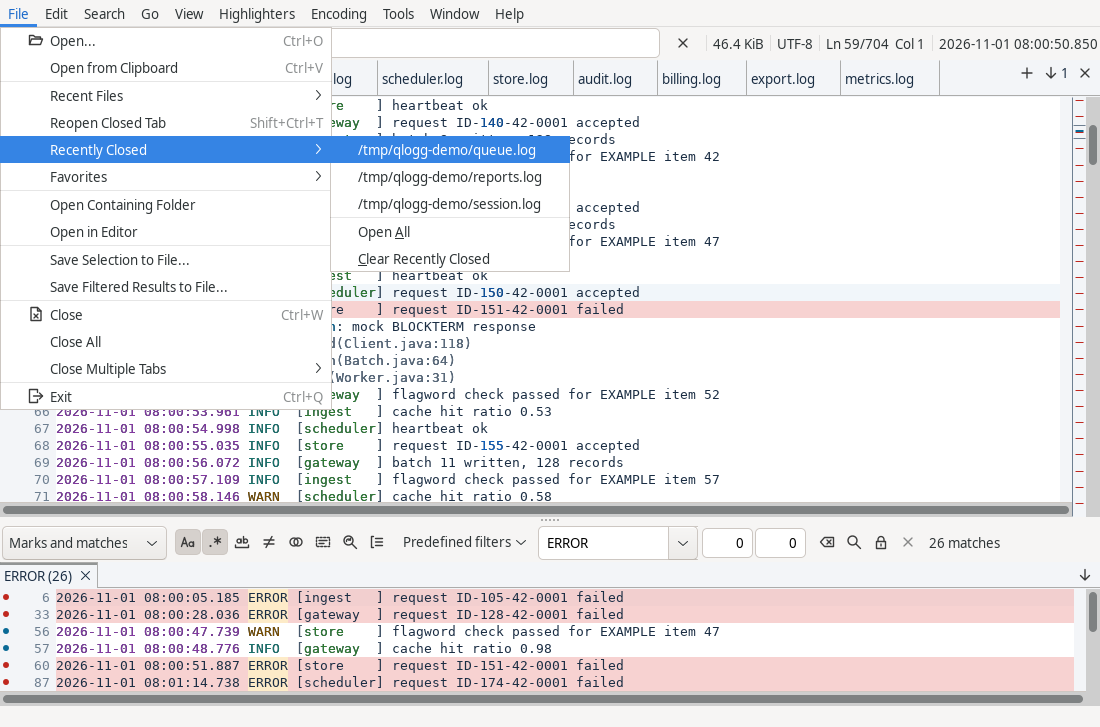
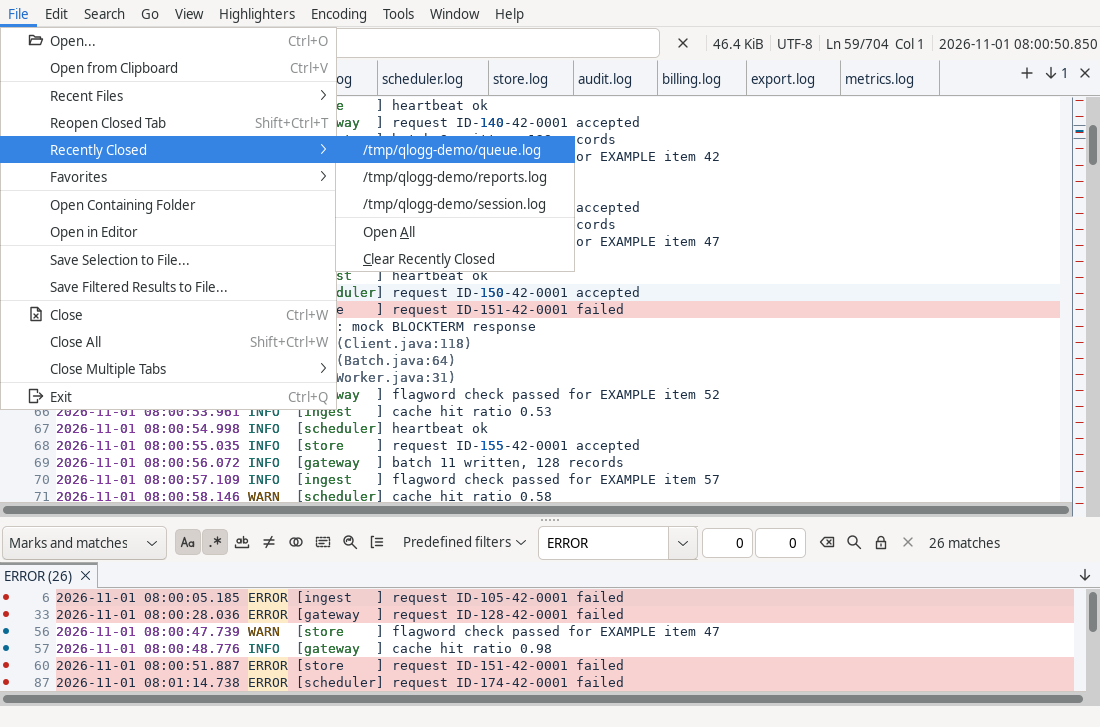
Regenerate the shortcuts and Recently Closed screenshots for Close All, name LinkageError and the no-GTK exit in the launcher docs, document both GTK fallback directions, add .tool and the windows-aarch64 JDK, name the UCRT forwarders and drop the umask sentence

diff --git a/qlogg-launcher/README.md b/qlogg-launcher/README.md
@@ -28,7 +28,7 @@ module except the bootstrap, so it holds the architecture rules.
 |---|---|
 | 0 | Help, version, the files went to the running instance, or the last window closed |
 | 1 | Bad command line, or a `--settings` path that cannot be a directory |
-| 3 | SWT failed to load (`UnsatisfiedLinkError` or `SWTError` from `new Display()`), typically missing GTK 3 libraries |
+| 3 | SWT failed to load (`LinkageError` or `SWTError` from `Display` class initialization or `new Display()`), typically no loadable GTK |
 | 4 | UI-thread failures ran the quit (`UiFailures`) |
 
 `Main` calls `System.exit` only for a nonzero status. After a normal close
@@ -287,7 +287,7 @@ Classes tagged `swt` open windows and run under a display (Xvfb under
 | `ScreenshotsTest` (`swt`) | Runs only with `-Dqlogg.screenshots=<dir>` (`tools/screenshots.sh`): a generated mock log at 1100 x 700 (`-Dqlogg.screenshots.width` and `.height` override it; `-Dqlogg.screenshots.tabs=2` opens a second log so the tab row holds two tabs) with a highlighter set, a search and two marks; writes `qlogg-light.png` and `qlogg-dark.png` through `Shell.print` |
 | `PortableRunTest` (`swt`) | `Gui` twice over a portable bundle with `user.home` set as `PlatformSetup` sets it, once with the marker in the bundle and once in its `bin/`: the first run opens a log, zooms and adds a favorite, the second restores the session; every new or changed file lies in the marker's folder and the home directory is empty |
 | `PortableGuideTest` (`swt`, Linux, not GTK 4) | `PortableGuideMain` as a child process in portable mode with `HOME` an empty folder and no application for HTML: Help > User Guide writes the copy and opens no guide window, and no `QLogg` folder under `.cache` or `.local/share` and no `.cache/mesa_shader_cache` appears. GTK 4's renderer writes the Mesa cache in every run |
-| `LoadedToolkitTest` (`swt`, Linux) | `LoadedToolkitMain` as a child process with `SWT_GTK4=1` and an empty `libgtk-4.so.1` first on `LD_LIBRARY_PATH`: SWT falls back to GTK 3, `PlatformTraits.PLATFORM` is the GTK 3 traits, and one WARN names the fallback |
+| `LoadedToolkitTest` (`swt`, Linux) | `LoadedToolkitMain` as a child process with `SWT_GTK4=1` and an empty `libgtk-4.so.1` first on `LD_LIBRARY_PATH`: SWT falls back to GTK 3, `PlatformTraits.PLATFORM` is the GTK 3 traits, and one WARN names the fallback; with neither GTK loadable, `Main` exits 3 and prints `qlogg: SWT failed to start` |
 | `WindowsGuiTest` (`swt`) | `Gui` as a primary: New Window opens a second window, a handoff from a worker opens its file in the window activated last, quit closes both windows, the workers and the endpoint file; a handoff sent before `Gui` runs opens as a tab |
 | `StoreFaultsTest` (`swt`) | `Gui` over a malformed, an oversized and an unknown-version session file: each opens an empty window, exits 0 and logs a WARN. A remembered encoding the runtime does not support opens the file with detection |
 | `SigtermTest` (`swt`, Linux) | `Main` as a child process restoring a two-file session: after both files' `Indexing ... done` lines in its `-l` log, SIGTERM (`Process.destroy`) ends it within the hook's bound, the endpoint file is gone, the session and positions files were written, and the hook's INFO line reached the log. Windows has no SIGTERM; `destroy` there terminates without hooks |

diff --git a/qlogg-app/docs/document-views.md b/qlogg-app/docs/document-views.md
@@ -173,10 +173,10 @@ its menu's enablement then.
 
 - `]` and `[` go to the next and previous mark; with none, a notice shows.
 - `toggleMarks` runs `MarkToggle` from a `qlogg-search-` worker, one batch of
-  4,096 rows per CPU step (`CpuSteps`), with the `ActivityIndicator` active. One toggle runs at a time (a second `M` shows a
-  notice), with progress notices at most every 250 ms. A toggle over more than
-  4,096 rows reports the count when it ends. Unmarking removes the lines'
-  comments.
+  4,096 rows per CPU step (`CpuSteps`), with the `ActivityIndicator` active.
+  One toggle runs at a time (a second `M` shows a notice), with progress
+  notices at most every 250 ms. A toggle over more than 4,096 rows reports the
+  count when it ends. Unmarking removes the lines' comments.
 - Marking reserves from `RESULTS` and stops with a notice at the share's limit.
 - Edit Mark Comment (`Shift+M`) asks for the comment of the focused view's
   caret line (`MainView.askMarkComment`). `setMarkComment` then marks the line
@@ -278,9 +278,10 @@ line in the main view; a click or `Enter` makes that a jump of the
 lines' and toggle apart from the main view's.
 
 In marks and matches mode, the marks outside the matches come from a snapshot
-built by a `qlogg-search-` worker as one CPU step (`FilteredView.buildExtras`), at most one at
-a time and not while a mark toggle runs. Until it arrives the rows keep the
-previous snapshot, so the marks are never walked on the UI thread.
+built by a `qlogg-search-` worker as one CPU step (`FilteredView.buildExtras`),
+at most one at a time and not while a mark toggle runs. Until it arrives the
+rows keep the previous snapshot, so the marks are never walked on the UI
+thread.
 
 ### Context lines
 
@@ -289,8 +290,8 @@ Context counts come from the shown set's toggles
 set's), so a kept set keeps its counts.
 
 - After the matches change, `ContextRows.extend` runs from a `qlogg-search-`
-  worker as one CPU step before the marks snapshot, one build at a time. The rows stay on the
-  installed build until the next arrives.
+  worker as one CPU step before the marks snapshot, one build at a time. The
+  rows stay on the installed build until the next arrives.
 - `grew(lineCount)` re-reads the rows when the line count changes, so the last
   result's context extends with the file without a search.
 - `contextRow` and `startsGroup` feed the row shading and the group rule.

diff --git a/qlogg-ui-swt/docs/main-window.md b/qlogg-ui-swt/docs/main-window.md
@@ -331,9 +331,12 @@ return; only `PlatformTraits`, `DialogColors`, `WindowStacking` and
 `ToolItemSizing` are public. `LoadedToolkit` chooses `PlatformTraits.PLATFORM`
 when the interface is first used, from `SWT.getPlatform()` and, on GTK, the
 major version of the GTK that SWT loaded: it initializes the `Display` class,
-which loads SWT's GTK library, then reads `org.eclipse.swt.internal.gtk.version`.
-SWT loads GTK 3 when `SWT_GTK4=1` is set and GTK 4 fails to load; QLogg then
-uses the GTK 3 traits and logs one WARN.
+which loads SWT's GTK library, then reads
+`org.eclipse.swt.internal.gtk.version`. SWT loads GTK 3 when `SWT_GTK4=1` is
+set and GTK 4 fails to load; QLogg then uses the GTK 3 traits and logs one
+WARN. Without `SWT_GTK4`, SWT loads GTK 4 when GTK 3 fails to load, and QLogg
+uses the GTK 4 traits with no WARN. When neither loads, `LoadedToolkit` logs
+the failure at DEBUG and chooses the GTK 3 traits, and `Gui` exits 3.
 `PlatformTraits.of` builds any platform's traits, so `PlatformTraitsTest`
 checks all four tables on Linux. `ArchitectureTest.platformOnlyInTraits` fails
 on a `SWT.getPlatform()` call or a string starting `org.eclipse.swt.internal.`

diff --git a/README.md b/README.md
@@ -53,8 +53,6 @@ xvfb-run -a ./mvnw clean verify
 rules and every test, and builds the universal jar and the bundle for the build
 host. Fix formatting with `./mvnw spotless:apply`.
 
-CI builds under `umask 022`; build under it locally too.
-
 | Command | Builds |
 |---|---|
 | `./mvnw clean verify` | Universal zip and the host target's bundle |
@@ -118,10 +116,10 @@ scripts/container.sh ./mvnw -B spotless:check
 ### Continuous integration
 
 `.github/workflows/ci.yml` runs on every push to `main`, every pull request and
-every pushed `v*` tag, and on manual dispatch, with Temurin 21.0.13+9. Actions
-are pinned by commit SHA, and every checkout sets `persist-credentials: false`.
-Linux jobs install Xvfb and GTK 3 from the Ubuntu archive when the runner image
-lacks them.
+every pushed `v*` tag, and on manual dispatch, with Temurin 21.0.13+9
+(21.0.12+8 on `windows-11-arm`). Actions are pinned by commit SHA, and every
+checkout sets `persist-credentials: false`. Linux jobs install Xvfb and GTK 3
+from the Ubuntu archive when the runner image lacks them.
 
 | Job | Runners | Does |
 |---|---|---|

diff --git a/docs/user-guide.md b/docs/user-guide.md
@@ -566,12 +566,12 @@ the match highlight and the default color labels; each syntax color reaches
 4.5:1 on the view, the caret's line, context lines and filtered rows.
 
 To add a scheme, put a file named `<id>.properties` in the `colors` folder of
-the settings directory ([Settings directory](#settings-directory)); QLogg reads the folder
-at start and lists the schemes after the bundled ones. `<id>` is letters,
-digits, `-` and `_`, and is not `follow`, `light`, `dark` or a bundled
-scheme's id. The file sets `dark=true` or `dark=false`, which picks
-the color label variants, an optional `name=` shown in the list, and each of
-these keys as `#rrggbb`:
+the settings directory ([Settings directory](#settings-directory)); QLogg reads
+the folder at start and lists the schemes after the bundled ones. `<id>` is
+letters, digits, `-` and `_`, and is not `follow`, `light`, `dark` or a bundled
+scheme's id. The file sets `dark=true` or `dark=false`, which picks the color
+label variants, an optional `name=` shown in the list, and each of these keys
+as `#rrggbb`:
 
 | Keys | Colors |
 |---|---|

diff --git a/qlogg-core/README.md b/qlogg-core/README.md
@@ -109,8 +109,8 @@ system's answers from `OsTraits.of(name)`.
 another target, when asked to open the file with its default application.
 `windows(name, pathext)` matches `RunnableTypes.WINDOWS` and each `.`-prefixed
 `PATHEXT` entry, case-insensitively, after dropping trailing dots and spaces as
-Windows does. `mac(name)` matches `RunnableTypes.MAC`: `.terminal` and
-`.command` run in Terminal, `.jar` in Jar Launcher, and `.fileloc`, `.webloc`
+Windows does. `mac(name)` matches `RunnableTypes.MAC`: `.terminal`, `.command`
+and `.tool` run in Terminal, `.jar` in Jar Launcher, and `.fileloc`, `.webloc`
 and `.inetloc` open their target, none needing the execute bit. Both lists are
 denylists: a program installed later can register another extension to run.
 

diff --git a/qlogg-app/docs/highlighting.md b/qlogg-app/docs/highlighting.md
@@ -87,9 +87,9 @@ Triggers act on complete lines appended after the first indexing pass ends.
 Each flush with unscanned growth and no scan running starts a scan on a
 `qlogg-search-` worker under `LogDocument.enter`. The scan loops over
 `Triggers.scan` in batches of 4,096 lines to the indexed end, each a CPU step
-(`CpuSteps`), re-reading the index each batch, and posts each batch. `detach` cancels its token. A scan that
-fails to read keeps its position, and the next starts when the complete line
-count changes.
+(`CpuSteps`), re-reading the index each batch, and posts each batch. `detach`
+cancels its token. A scan that fails to read keeps its position, and the next
+starts when the complete line count changes.
 
 On the UI thread, a batch:
 

diff --git a/qlogg-app/docs/search.md b/qlogg-app/docs/search.md
@@ -74,8 +74,9 @@ open range extends over appended lines.
 `selectRange()` (`Ctrl+R`) selects the range around the main view's caret with
 the field text, the range end and the current toggles. It runs `RangeFinder` on
 a `qlogg-search-` worker inside a document entry, matching each block read as
-one CPU step, holding the `ActivityIndicator`. A newer request or `cancel()` stops an older one. With no
-range there, a notice shows and the selection stays.
+one CPU step, holding the `ActivityIndicator`. A newer request or `cancel()`
+stops an older one. With no range there, a notice shows and the selection
+stays.
 
 ### Toggles, edits and navigation
 
